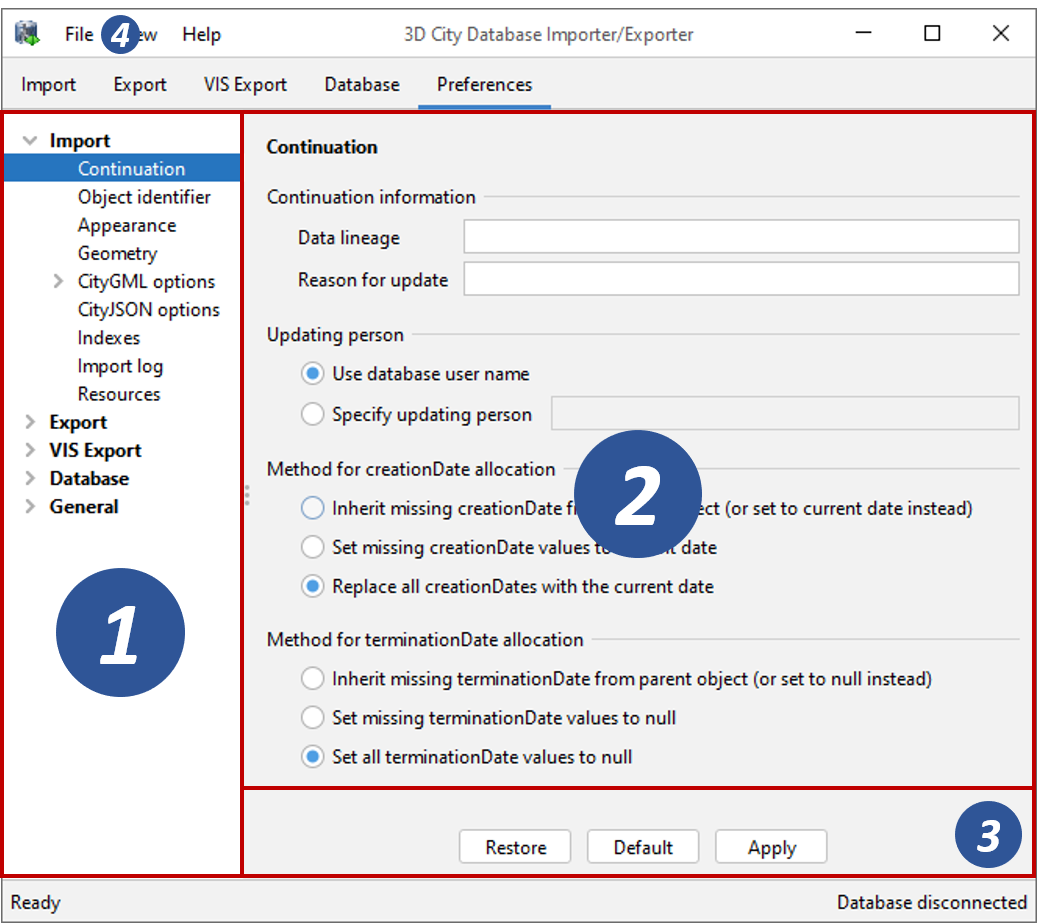
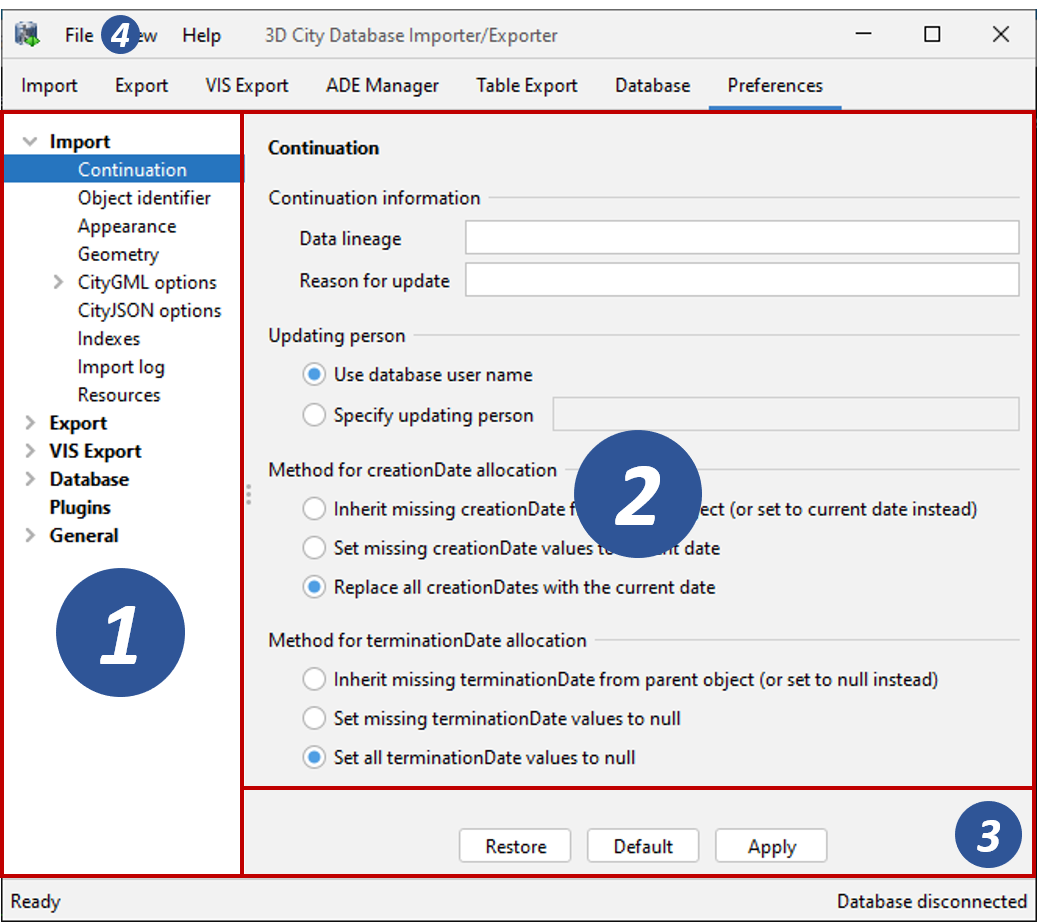
added documentation of plugins overview UI

diff --git a/source/impexp/preferences/plugins.rst b/source/impexp/preferences/plugins.rst
@@ -1,0 +1,30 @@
+.. _impexp_general_preferences_plugins:
+
+Plugins
+^^^^^^^
+
+Plugins extend the core functionality of the Importer/Exporter and can be developed by everyone based
+on a well-defined plugin API (see :numref:`impexp_plugin_mechanism_chapter`). This preferences dialog
+provides an overview of all installed plugins and lets you enable or disable them. The dialog is only
+available if at least one plugin has been installed.
+
+.. figure:: /media/impexp_preferences_plugins_fig.png
+   :name: impexp_preferences_plugins_fig
+   :align: center
+
+   Plugins overview and management.
+
+Simply browse through the list of plugins to get more information about each plugin. This typically
+comprises the name of the plugin, its version and a brief description of its functionality. Plugin vendors may
+provide additional links to online resources such as the plugin homepage or a user manual. The *technical details*
+section contains implementation details of the plugin, which are useful in case you encounter issues and
+need support from the plugin vendor.
+
+A plugin is enabled or disabled by ticking the checkbox in the list entry. Disabling unnecessary plugins can increase
+the performance of Importer/Exporter operations affected by the plugin.
+
+.. note::
+   You cannot *install* or *remove* plugins using this dialog. Plugins are rather installed by copying the
+   plugin files into the ``plugins`` subfolder within the installation directory of the Importer/Exporter and
+   uninstalled by simply deleting these files again (see also :numref:`impexp_plugin_mechanism_chapter`).
+   Both actions require a restart of the Importer/Exporter.

diff --git a/source/plugins/plugin-mechanism.rst b/source/plugins/plugin-mechanism.rst
@@ -1,3 +1,5 @@
+.. _impexp_plugin_mechanism_chapter:
+
 Introduction to the plugin mechanism
 ------------------------------------
 
@@ -22,7 +24,14 @@ put all plugin files into the ``plugins`` subfolder of the Importer/Exporter
 installation directory. To keep multiple plugins independent from each
 other, it is recommended to create a separate subfolder below ``plugins``
 for each plugin. When running the Importer/Exporter, the installed
-plugins are automatically detected and loaded with the application.
+plugins are automatically detected and loaded with the application. Changes
+to the ``plugins`` subfolder require a restart of the Importer/Exporter to
+become effective.
+
+Installed plugins can be enabled or disabled at runtime both using the
+graphical user interface of the Importer/Exporter and on the command line.
+Please refer to :numref:`impexp_general_preferences_plugins` and see :numref:`impexp_cli_chapter`
+for more details.
 
 The Importer/Exporter is shipped with two free
 and open-source plugins that can be installed during the setup process

diff --git a/source/impexp/preferences.rst b/source/impexp/preferences.rst
@@ -4,6 +4,7 @@ Preferences
 .. toctree::
    :hidden:
 
+   preferences/plugins
    preferences/manage-crs
    preferences/cache
    preferences/paths
@@ -49,6 +50,8 @@ The following table provides a summary overview of the available settings.
 
    * - | **Preference name**
      - | **Description**
+   * - | :ref:`impexp_general_preferences_plugins`
+     - | Overview and management of installed plugins.
    * - | :ref:`impexp_crs_management_chapter`
      - | Management of user-defined coordinate reference systems.
    * - | :ref:`impexp_general_preferences_cache`

diff --git a/source/plugins/index.rst b/source/plugins/index.rst
@@ -1,4 +1,4 @@
-.. _spreadsheet_plugin_install:
+.. _impexp_plugins_chapter:
 
 Importer/Exporter plugins
 =========================
